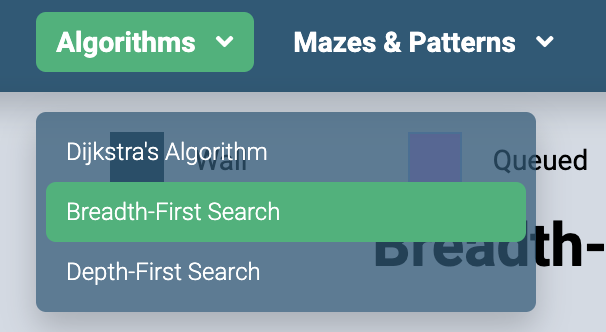
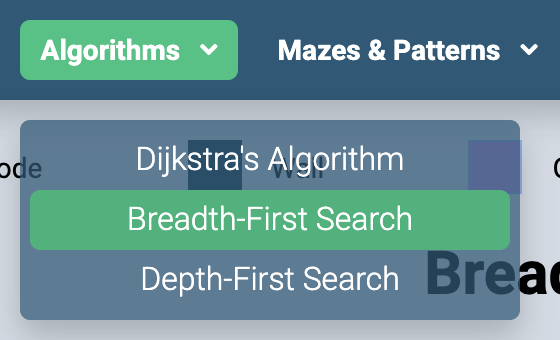
ready to checkout

diff --git a/dist/main.js b/dist/main.js
@@ -87,7 +87,6 @@ eval("const {generateInt} = __webpack_require__(/*! ./mathUtil */ \"./src/lib/ut
   \******************************/
 /*! unknown exports (runtime-defined) */
 /*! runtime requirements: module, __webpack_require__ */
-/*! CommonJS bailout: module.exports is used directly at 304:0-14 */
 /***/ ((module, __unused_webpack_exports, __webpack_require__) => {
 
 eval("const { Board } = __webpack_require__(/*! ./board */ \"./src/lib/util/board.js\");\nconst { generateInt } = __webpack_require__(/*! ./mathUtil */ \"./src/lib/util/mathUtil.js\");\n\nclass Game extends Board {\n    constructor(size, algoList, gridAnimations) {\n        super(size);\n        this.algoList = algoList;\n        this.gridAnimations = gridAnimations;\n    }\n    watchVisualize() {\n        document.getElementById(\"visualize\").addEventListener(\"click\", e => {\n            this.run();\n        })\n    }\n    watchEnter() {\n        document.addEventListener(\"keypress\", e => {\n            this.run();\n        })\n    }\n    run(){\n        this.instant = false;\n        this.stopAnimations(); this.clearMisc();\n        document.getElementById(\"clearPath\").innerText = \"Clear Path\"\n        const { nodesToAnimate, queueToAnimate, backTrace } = this.execute();\n        this.animateVisualize(this.getSpeed(), nodesToAnimate, queueToAnimate, backTrace);\n    }\n    watchInstant(){\n        const { nodesToAnimate, queueToAnimate, backTrace } = this.execute();\n        this.animateInstant(nodesToAnimate, queueToAnimate, backTrace);\n    }\n    execute(){\n        this.clearPath(null, \"instantvisited\", false);\n        this.clearVisited();\n        const nodesToAnimate = [];\n        const queueToAnimate = [];\n        const backTrace = [];\n        const algo = new this.algoList[this.getAlgo()](this.size)\n        algo.execute(nodesToAnimate, queueToAnimate, backTrace);\n        // debugger\n        this.backTrace = backTrace;\n        return {nodesToAnimate, queueToAnimate,backTrace};\n    }\n    animateInstant(nodesToAnimate, queueToAnimate, backTrace){\n        const gridA = new this.gridAnimations(\"fast\", nodesToAnimate);\n        const gridC = new this.gridAnimations(\"fast\", queueToAnimate);\n        const gridB = new this.gridAnimations(\"fast\", backTrace);\n        gridC.animateInstant(\"queued\");\n        gridA.animateInstant(\"instantvisited\");\n        // debugger\n        gridB.animateInstant(\"instantpath\");\n    }\n    animateWalls(nodesToAnimate, instant = true){\n        const gridA = new this.gridAnimations(\"fast\", nodesToAnimate);\n        // const gridA = new this.gridAnimations(\"slow\", nodesToAnimate);\n        if(instant){\n            gridA.animateInstant(\"walls\");\n            if (this.instant)\n                this.watchInstant();\n        }else{\n            gridA.animateNodes(\"walls\", ()=>{\n                if (this.instant)\n                    this.watchInstant();\n            });\n        }\n    }\n    animatePath() {\n        this.path = true;\n        const gridB = new this.gridAnimations(this.getSpeed(), this.backTrace);\n        window.timeouts.push(\n            setTimeout(() => {\n            gridB.animateNodes(\"path\",\n                () => setTimeout(() => this.convert2Insta(), 2000));\n        }\n        )\n        )\n    }\n    animateVisualize(speed, nodesToAnimate, queueToAnimate, backTrace){\n        const gridA = new this.gridAnimations(speed, nodesToAnimate);\n        const gridC = new this.gridAnimations(speed, queueToAnimate);\n        const gridB = new this.gridAnimations(speed, backTrace);\n        window.timeouts.push(setTimeout(()=>gridA.animateNodes(\"current\")));\n        // debugger\n        window.timeouts.push(setTimeout(() => gridC.animateNodes(\"queued\"), gridA.speed));\n        window.timeouts.push(\n        setTimeout(() => {\n            gridA.animateNodes(\"visited\",\n                () => gridB.animateNodes(\"path\", () => setTimeout(() => this.convert2Insta(), 2000)));\n        }, 10 * gridA.speed)\n        )        \n    }\n    watchDensity(){\n        const density = document.getElementById(\"density\");\n        density.addEventListener(\"click\", e => {\n            const newDense = this.getDensity(e);\n            // debugger\n            // this.instant = false;\n            if(newDense){\n                this.genBoard(newDense);\n            }\n\n        })\n    }\n    getDensity(e){\n        const dense = document.getElementById(\"dense\");\n        const sparse = document.getElementById(\"sparse\");\n        const normal = document.getElementById(\"normal\");\n        const denseTd = dense.classList.contains(\"selected\");\n        const sparseTd = sparse.classList.contains(\"selected\");\n        const normalTd = normal.classList.contains(\"selected\");\n        // debugger\n        if (!dense.contains(e.target) && !sparse.contains(e.target) && !normal.contains(e.target) ) return false;\n        if (denseTd) return \"dense\";\n        if (sparseTd) return \"sparse\";\n        if (normalTd) return \"normal\";\n    }\n    genRandomWalls(){\n        const [ h, w ] = this.size;\n        const n = h*w;\n        let wCnt = n/2;\n        // let wCnt = generateInt(n);\n        let x,y;\n        let cur; let nodes = [];\n        // debugger\n        while(wCnt > 0){\n            [x,y] = [generateInt(h),generateInt(w)];\n            cur = document.getElementById(`${x}-${y}`);\n            if(cur.classList.contains(\"unvisited\") && !this.isStartStop(cur)){\n                wCnt--;\n                nodes.push([x,y]);\n            }\n        }\n        this.animateWalls(nodes, this.density === \"dense\");\n    }\n    genBorderWall(){\n        const [h, w] = this.size;\n        let x = 0, y = 0;\n        let cur; let nodes = [];\n        let walls = {};\n        for (let y = 0; y < w; y++) {\n            cur = document.getElementById(`${0}-${y}`);\n            if (cur.classList.contains(\"unvisited\") && !this.isStartStop(cur)) {\n                nodes.push([0, y]);\n                walls[`${0}-${y}`] = true;\n            }\n        }\n        for (let x = 0; x < h; x++) {\n            cur = document.getElementById(`${x}-${0}`);\n            if (cur.classList.contains(\"unvisited\") && !this.isStartStop(cur)) {\n                nodes.push([x, 0]);\n                walls[`${x}-${0}`] = true;\n            }\n            cur = document.getElementById(`${x}-${w-1}`);\n            if (cur.classList.contains(\"unvisited\") && !this.isStartStop(cur)) {\n                nodes.push([x, w-1]);\n                walls[`${x}-${w-1}`] = true;\n            }\n        }\n        for (let y = 0; y < w; y++) {\n            cur = document.getElementById(`${h-1}-${y}`);\n            if (cur.classList.contains(\"unvisited\") && !this.isStartStop(cur)) {\n                nodes.push([h - 1, y]);\n                walls[`${h-1}-${y}`] = true;\n            }\n        }\n        return {nodes, walls};\n    }\n    genRecursiveWalls(){\n        let {nodes,walls} = this.genBorderWall();\n        let [x,y] = this.size;\n        this.genRecursiveWalls_ind([1,1],[x-1,y-1],nodes,walls,-1)\n        this.animateWalls(nodes, this.density === \"dense\");\n        // this.animateWalls(nodes, true);\n        // this.run();\n    }\n    validXLine(line,l,r, walls){\n        const left = walls[`${line}-${l-1}`];\n        const right = walls[`${line}-${r}`];\n        return left && right;\n    }\n    validYLine(line,l,r, walls){\n        const left = walls[`${l-1}-${line}`];\n        const right = walls[`${r}-${line}`];\n        return left && right;\n    }\n    hSkips(h,H,w,W,line){\n        let skips = [];\n        skips[0] = generateInt(line - w) + w; // left side\n        skips[1] = generateInt(W - line - 1) + line + 1; // right side\n        skips[2] = generateInt(H - h) + h;\n        return skips;\n    }\n    vSkips(h, H, w, W, line) {\n        let skips = [];\n        skips[0] = generateInt(line - w) + w; // left side\n        skips[1] = generateInt(W - line - 1) + line + 1; // right side\n        skips[2] = generateInt(H - h) + h;\n        return skips;\n    }\n    genRecursiveWalls_ind(lBound,uBound, nodesToAnimate, walls){\n        const [h,w] = lBound;\n        const [H,W] = uBound;\n        // debugger\n        if (W - w < 3 || H - h < 3 ) return;\n        let yLine = generateInt(W - w - 2) + w + 1;\n        let xLine = generateInt(H - h - 2) + h + 1;\n        let i=0;\n        // if (W - w === 3 && !this.validYLine(w+1, h, H, walls)) return;\n        while (!this.validYLine(yLine,h,H,walls)){\n            // debugger\n            i++;\n            if(i===W-w){\n                debugger;\n                return\n            }\n            yLine = generateInt(W - w - 2) + w + 1;\n        }\n        i=0;\n        // if (H - h === 3 && !this.validXLine(h + 1, w, W, walls)) return;\n        while (!this.validXLine(xLine, w, W,walls)) {\n            i++;\n            if(i===H-h){\n                debugger;\n                return\n            }\n            xLine = generateInt(H - h - 2) + h + 1;\n        }\n        let x, y;\n        let skips = this.hSkips(h,H,w,W,yLine);\n        while (skips[2] === xLine) skips[2] = generateInt(H - h) + h;\n        let cur;\n        //!\n        y = yLine;\n        for(let x=h;x<H;x++){ // line 2\n            if(x !== skips[2]){\n                cur = document.getElementById(`${x}-${y}`);\n                if (cur.classList.contains(\"unvisited\") && !this.isStartStop(cur)) {\n                    nodesToAnimate.push([x, y]);\n                    walls[`${x}-${y}`] = true;\n                }\n            }\n        }\n        x = xLine;\n        for (let y = w; y < W; y++) { // line 1\n            if (y !== skips[0] && y !== skips[1]) {\n                cur = document.getElementById(`${x}-${y}`);\n                if (cur.classList.contains(\"unvisited\") && !this.isStartStop(cur)) {\n                    nodesToAnimate.push([x, y]);\n                    walls[`${x}-${y}`] = true;\n                }\n            }\n        }\n        this.genRecursiveWalls_ind(lBound,[x,y],                    nodesToAnimate, walls); //Q1\n        this.genRecursiveWalls_ind([lBound[0],y+1],[x,uBound[1]],   nodesToAnimate, walls); //Q2\n        this.genRecursiveWalls_ind([x+1,lBound[1]],[uBound[0],y],   nodesToAnimate, walls); //Q3\n        this.genRecursiveWalls_ind([x+1,y+1],uBound,                nodesToAnimate, walls); //Q4\n    }\n    wallGen(e, instant = false){\n        const none = document.getElementById(\"no-maze\");\n        const rM = document.getElementById(\"random-maze\");\n        const rD = document.getElementById(\"recursive-division\");\n        // debugger\n        if ((instant || rM.contains(e.target)) && rM.classList.contains(\"selected\")){\n            this.clearWalls(e,false);\n            window.timeouts.push(\n                setTimeout(() => \n            this.genRandomWalls(), 0)\n            )\n        }\n        if ((instant || rD.contains(e.target)) && rD.classList.contains(\"selected\")){\n            this.clearWalls(e,false);\n            window.timeouts.push(\n                setTimeout(() => \n            this.genRecursiveWalls(), 0)\n            )\n        }\n        if ((instant || none.contains(e.target)) && none.classList.contains(\"selected\")){\n            this.clearWalls(e,false);\n        }\n    }\n    watchMaze(){\n        const maze = document.getElementById(\"maze\");\n        maze.addEventListener(\"click\",e=>{\n            // debugger\n            this.wallGen(e);\n        })\n    }\n    watchAlgo(){\n        const maze = document.getElementById(\"algo\");\n        maze.addEventListener(\"click\",e=>{\n            const bfsT = document.getElementById(\"bfs\").contains(e.target);\n            const dfsT = document.getElementById(\"dfs\").contains(e.target);\n            const dijkstraT = document.getElementById(\"dijkstra\").contains(e.target);\n            if(bfsT || dfsT || dijkstraT){\n                document.getElementsByClassName(\"start\")[0].innerHTML = this.getStartSymbol();\n                document.getElementsByClassName(\"key-start\")[0].innerHTML = this.getStartSymbol();\n                if(this.instant) this.watchInstant();\n                // else this.run();\n            }\n        })\n    }\n}\n\n\nmodule.exports = {\n    Game\n}\n\n//# sourceURL=webpack://pathfinding_visualizer/./src/lib/util/game.js?");
@@ -118,9 +117,10 @@ eval("__webpack_require__.r(__webpack_exports__);\n/* harmony export */ __webpac
   \*******************************/
 /*! unknown exports (runtime-defined) */
 /*! runtime requirements: module */
+/*! CommonJS bailout: module.exports is used directly at 70:0-14 */
 /***/ ((module) => {
 
-eval("class Modal {\n    constructor(){\n        this.modal = 1;\n        document.getElementsByClassName(\"modal-content-1\")[0].style.display = \"flex\";\n        document.getElementById(\"prev-tutorial\").style.display = \"none\";\n    }\n    watchAll() {\n        this.watchOutside();\n        this.watchnextModal();\n        this.watchprevModal();\n        this.watchskipModal();\n    }\n    watchOutside() {\n        document.addEventListener(\"click\", (e) => {\n            // debugger\n            const modal_content = document.getElementsByClassName(\"modal-content\");\n            for(let mc of modal_content){\n                // debugger\n                if(!mc.contains(e.target)){\n                    this.clearModal();\n                }\n            }\n        })\n    }\n    clearModal() {\n        for(let el of document.getElementsByClassName(\"modal\")){\n            el.style.display = \"none\";\n        }\n    }\n    updateModal(tutorial, i) {\n        if (this.modal + i < 1) return \n        if (this.modal + i > 8) this.clearModal();\n        tutorial.getElementsByClassName(`modal-content-${this.modal}`)[0].style.display = \"none\"\n        this.modal += i;\n        tutorial.getElementsByClassName(`modal-content-${this.modal}`)[0].style.display = \"flex\"\n        tutorial.getElementsByClassName(`modal-content-pg`)[0].innerHTML = `<p>${this.modal}/8</p>`\n        if (this.modal === 1){\n            document.getElementById(\"prev-tutorial\").style.display = \"none\";\n        }else{\n            document.getElementById(\"prev-tutorial\").style.display = \"flex\";\n        }\n        if (this.modal === 8){\n            document.getElementById(\"next-tutorial\").innerText = \"Finish\";\n        }else{\n            document.getElementById(\"next-tutorial\").innerText = \"Next\";\n        }\n    }\n    watchprevModal() {\n        const prev = document.getElementById(\"prev-tutorial\");\n        const tutorial = document.getElementById(\"tutorial\");\n        prev.addEventListener(\"click\", (e) => {\n            this.updateModal(tutorial, -1);\n        })\n    }\n    watchnextModal() {\n        const next = document.getElementById(\"next-tutorial\");\n        const tutorial = document.getElementById(\"tutorial\");\n        next.addEventListener(\"click\", (e) => {\n            this.updateModal(tutorial, 1);\n        })    \n    }\n    watchskipModal() {\n        const skip = document.getElementById(\"skip-tutorial\");\n        skip.addEventListener(\"click\", (e) => {\n            this.clearModal();\n        })\n    }\n}\n\nmodule.exports = {\n    Modal\n}\n\n//# sourceURL=webpack://pathfinding_visualizer/./src/lib/util/modal.js?");
+eval("class Modal {\n    constructor(){\n        this.modal = 1;\n        document.getElementsByClassName(\"modal-content-1\")[0].style.display = \"flex\";\n        document.getElementById(\"prev-tutorial\").style.display = \"none\";\n    }\n    watchAll() {\n        this.watchOutside();\n        this.watchnextModal();\n        this.watchprevModal();\n        this.watchskipModal();\n    }\n    watchOutside() {\n        document.addEventListener(\"click\", (e) => {\n            // debugger\n            const modal_content = document.getElementsByClassName(\"modal-content\");\n            for(let mc of modal_content){\n                // debugger\n                if(!mc.contains(e.target)){\n                    this.clearModal();\n                }\n            }\n        })\n    }\n    clearModal() {\n        for(let el of document.getElementsByClassName(\"modal\")){\n            el.style.display = \"none\";\n        }\n    }\n    updateModal(tutorial, i) {\n        if (this.modal + i < 1) return \n        if (this.modal + i > 8) this.clearModal();\n        tutorial.getElementsByClassName(`modal-content-${this.modal}`)[0].style.display = \"none\"\n        this.modal += i;\n        tutorial.getElementsByClassName(`modal-content-${this.modal}`)[0].style.display = \"flex\"\n        tutorial.getElementsByClassName(`modal-content-pg`)[0].innerHTML = `<p>${this.modal}/9</p>`\n        if (this.modal === 1){\n            document.getElementById(\"prev-tutorial\").style.display = \"none\";\n        }else{\n            document.getElementById(\"prev-tutorial\").style.display = \"flex\";\n        }\n        if (this.modal === 8){\n            document.getElementById(\"next-tutorial\").innerText = \"Finish\";\n        }else{\n            document.getElementById(\"next-tutorial\").innerText = \"Next\";\n        }\n    }\n    watchprevModal() {\n        const prev = document.getElementById(\"prev-tutorial\");\n        const tutorial = document.getElementById(\"tutorial\");\n        prev.addEventListener(\"click\", (e) => {\n            this.updateModal(tutorial, -1);\n        })\n    }\n    watchnextModal() {\n        const next = document.getElementById(\"next-tutorial\");\n        const tutorial = document.getElementById(\"tutorial\");\n        next.addEventListener(\"click\", (e) => {\n            this.updateModal(tutorial, 1);\n        })    \n    }\n    watchskipModal() {\n        const skip = document.getElementById(\"skip-tutorial\");\n        skip.addEventListener(\"click\", (e) => {\n            this.clearModal();\n        })\n    }\n}\n\nmodule.exports = {\n    Modal\n}\n\n//# sourceURL=webpack://pathfinding_visualizer/./src/lib/util/modal.js?");
 
 /***/ }),
 

diff --git a/index.html b/index.html
@@ -36,7 +36,7 @@
                             <div class="dropdown-body">
                             <div class="dropdown-item selected" id="no-maze"><li><p>None</p></li></div>
                             <div class="dropdown-item" id="recursive-division"><li><p>Recursive Division</p></li></div>
-                            <div class="dropdown-item" id="random-maze"><li><p>Basic Random Maze</p></li></div>
+                            <div class="dropdown-item" id="random-maze"><li><p>Random</p></li></div>
                             </div>
                         </ul>
                     </li>
@@ -103,21 +103,27 @@
                 <img src="./img/wall_2.gif" />
             </div>
             <div class='modal-content-6'>
-                <h1>Dragging Nodes</h1>
-                <h2>Click and drag nodes to move them</h2>
-                <h3>Note that the app will dynamically re-evaluate as nodes are dragged</h3>
-                <img src="./img/node_1.gif" />
+                <h1>Choosing Mazes & Patterns</h1>
+                <h2>Choose a maze or pattern from the "Mazes & Patterns" dropdown menu</h2>
+                <h3>Random patterns may not have a resulting path</h3>
+                <img src="./img/maze.png" />
             </div>
             <div class='modal-content-7'>
-                <h1>Navbar Guide</h1>
-                <h2>Use the navbar to select the algorithm, auto-generate a maze, change board density, animation speed</h2>
-                <img src="./img/navbar.png" />
-                <h3><span>Clear Walls</span> to clear walls</h3>
-                <h3><span>Clear Path</span> to restart visualization</h3>
-                <h3><span>Clear Board</span> to start over</h3>
-                <h3><span>Visualize</span> to watch the algorithm in action!</h3>
+                <h1>Dragging Nodes</h1>
+                <h2>Click and drag nodes to move them</h2>
+                <h3>The app will dynamically re-evaluate as nodes are dragged</h3>
+                <img src="./img/node_1.gif" />
             </div>
             <div class='modal-content-8'>
+                <h1>Navbar Guide</h1>
+                <h2>Use the navbar to select the algorithm, auto-generate a maze, change board density, and animation speed</h2>
+                <img src="./img/navbar.png" />
+                <h3><div class="modal-nav modal-walls">Clear Walls</div><div> to clear walls</div></h3>
+                <h3><div class="modal-nav modal-path">Clear Path</div><div> to restart visualization</div></h3>
+                <h3><div class="modal-nav modal-board">Clear Board</div><div> to start over</div></h3>
+                <h3><div class="modal-nav modal-visualize">Visualize</div><div> to watch the algorithm in action!</div></h3>
+            </div>
+            <div class='modal-content-9'>
                 <h1>Have Fun</h1>
                 <h2>Explore the endless possibilities of pathfinding</h2>
                 <h3 class="git-link"><a class="profile-link" href="https://github.com/kevinsuboy" target="_blank">Checkout my GitHub</a><i class="fab fa-github"></i></h3>

diff --git a/src/stylesheets/main.css b/src/stylesheets/main.css
@@ -152,7 +152,7 @@
   transition: all 0.1s linear; }
 
 .dropdown-content li {
-  font-size: 12px;
+  font-size: 16px;
   height: 100%;
   padding: 0 10px;
   display: flex;
@@ -409,7 +409,7 @@
   font-size: 14px;
   display: inline-block;
   width: 100%;
-  margin-top: 10px; }
+  margin: 10px 0; }
 
 .key-square {
   border: 1px solid #34d0eb83;
@@ -641,13 +641,35 @@ h3 span {
   margin-top: 15px;
   height: 300px; }
 
+.modal-content-9 {
+  display: none;
+  flex-direction: column; }
+
+.modal-content-9 h2 {
+  text-align: center;
+  margin: 10px auto;
+  font-size: 25px; }
+
+.modal-content-9 h3 {
+  margin: 10px auto;
+  font-size: 20px; }
+
+.modal-content-9 p {
+  margin: 10px auto;
+  font-size: 15px; }
+
+.modal-content-9 img {
+  margin: auto;
+  margin-top: 15px;
+  height: 300px; }
+
 .modal-content-1 img {
   margin: auto;
   margin-top: 15px;
   width: 400px;
   height: 400px; }
 
-.modal-content-7 img {
+.modal-content-8 img {
   margin: auto;
   margin-top: 15px;
   height: 45px; }
@@ -694,23 +716,47 @@ h3 span {
   flex-direction: row;
   flex-wrap: wrap; }
 
-.modal-content-8 i {
+.modal-content-9 i {
   font-size: 50px; }
 
-.modal-content-8 h2 {
+.modal-content-9 h2 {
   margin-bottom: 30px; }
+
+.modal-content-9 h3 {
+  display: flex;
+  flex-direction: row;
+  align-items: center; }
+
+.modal-content-9 h3:hover {
+  cursor: pointer;
+  color: #245978; }
+
+.profile-link {
+  text-decoration: none; }
+
+.modal-nav {
+  font-weight: bold;
+  margin-right: 5px;
+  border-radius: 5px;
+  padding: 5px;
+  color: #fff; }
 
 .modal-content-8 h3 {
   display: flex;
   flex-direction: row;
   align-items: center; }
 
-.modal-content-8 h3:hover {
-  cursor: pointer;
-  color: #245978; }
+.modal-walls {
+  background-color: #0c3547; }
 
-.profile-link {
-  text-decoration: none; }
+.modal-path {
+  background-color: #84a45a; }
+
+.modal-board {
+  background-color: #cc5a5aaf; }
+
+.modal-visualize {
+  background-color: #0bb577; }
 
 body {
   font-family: 'Roboto', sans-serif;

diff --git a/src/stylesheets/tutorial.scss b/src/stylesheets/tutorial.scss
@@ -1,3 +1,4 @@
+@import "./base";
 h3 span {
     font-weight: bold;
 }
@@ -16,7 +17,7 @@ h3 span {
     right: 10px;
     top: 10px;
 }
-@for $i from 1 through 8 {
+@for $i from 1 through 9 {
     .modal-content-#{$i} {
         display: none;
         flex-direction: column;
@@ -46,7 +47,7 @@ h3 span {
     width: 400px;
     height: 400px;
 }
-.modal-content-7 img {
+.modal-content-8 img {
     margin: auto;
     margin-top: 15px;
     height: 45px;
@@ -95,24 +96,48 @@ h3 span {
     flex-direction: row;
     flex-wrap: wrap;
 }
-.modal-content-8 i {
+.modal-content-9 i {
     font-size: 50px;
 }
-.modal-content-8 h2 {
+.modal-content-9 h2 {
     margin-bottom: 30px;
+}
+.modal-content-9 h3 {
+    display: flex;
+    flex-direction: row;
+    align-items: center;
+}
+.modal-content-9 h3:hover {
+    cursor: pointer;
+    color: $primary-color;
+}
+.profile-link {
+    text-decoration: none;
+}
+
+
+.modal-nav {
+    font-weight: bold;
+    margin-right: 5px;
+    // border: 1px solid red;
+    border-radius: 5px;
+    padding: 5px;
+    color: #fff;
 }
 .modal-content-8 h3 {
     display: flex;
     flex-direction: row;
     align-items: center;
 }
-.modal-content-8 h3:hover {
-    cursor: pointer;
-    color: $primary-color;
+.modal-walls {
+    background-color: $wall-color;
 }
-.visualize-modal {
-    
+.modal-path {
+    background-color: $warning-color-opaque;
 }
-.profile-link {
-    text-decoration: none;
+.modal-board {
+    background-color: $error-color;
+}
+.modal-visualize {
+    background-color: $secondary-color;
 }

diff --git a/src/lib/util/modal.js b/src/lib/util/modal.js
@@ -33,7 +33,7 @@ class Modal {
         tutorial.getElementsByClassName(`modal-content-${this.modal}`)[0].style.display = "none"
         this.modal += i;
         tutorial.getElementsByClassName(`modal-content-${this.modal}`)[0].style.display = "flex"
-        tutorial.getElementsByClassName(`modal-content-pg`)[0].innerHTML = `<p>${this.modal}/8</p>`
+        tutorial.getElementsByClassName(`modal-content-pg`)[0].innerHTML = `<p>${this.modal}/9</p>`
         if (this.modal === 1){
             document.getElementById("prev-tutorial").style.display = "none";
         }else{

diff --git a/src/stylesheets/_base.scss b/src/stylesheets/_base.scss
@@ -39,6 +39,7 @@ $error-color: #cc5a5aaf;
 $error-color-hover: #ff3434af;
 
 $warning-color: #cbf80079;
+$warning-color-opaque: #84a45a;
 $warning-color-hover: #cbf8008e;
 
 $caution-color: rgba(12, 53, 71, 0.603);

diff --git a/src/stylesheets/dropdown.scss b/src/stylesheets/dropdown.scss
@@ -20,7 +20,7 @@
     transition: all 0.1s linear;
 }
 .dropdown-content li {
-    font-size: 12px;
+    font-size: 16px;
     height: 100%;
     padding: 0 10px;
     display: flex;

diff --git a/src/stylesheets/legend.scss b/src/stylesheets/legend.scss
@@ -29,7 +29,7 @@
     font-size: 14px;
     display: inline-block;
     width: 100%;
-    margin-top: 10px;
+    margin: 10px 0;
     // border: 1px solid red;
 }
 .key-square{
